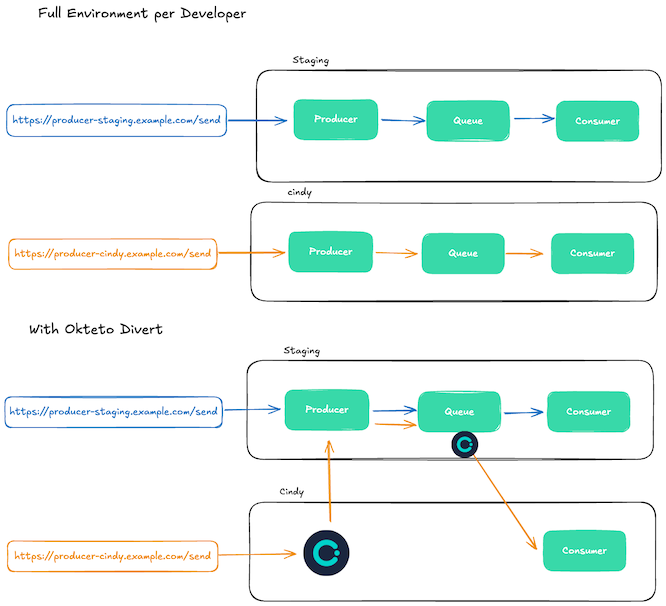
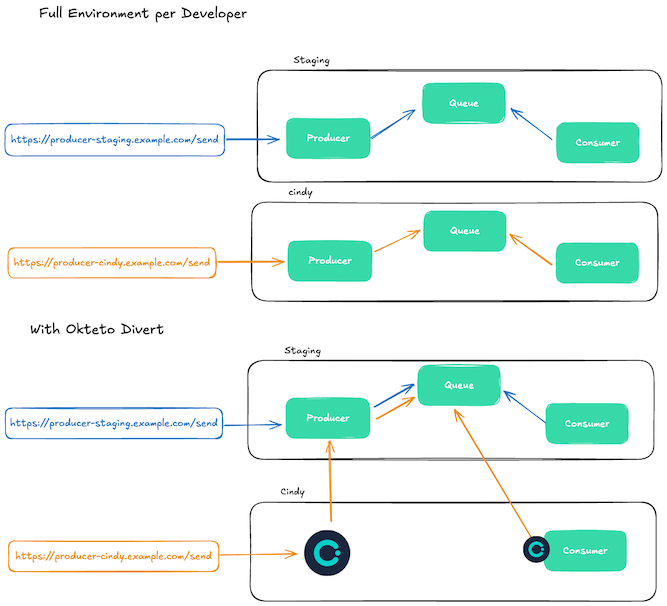
Update SQS example title and messaging references

diff --git a/producer-consumer-sqs/README.md b/producer-consumer-sqs/README.md
@@ -1,9 +1,9 @@
-# Okteto Divert Showcase - Producer-Consumer Kafka
+# Okteto Divert Showcase - Producer-Consumer SQS
 
 Okteto Divert allows you to spin up Development Environments that include **only the services you're actively working on**, while routing all other service traffic to a **shared environment**. This dramatically reduces infrastructure cost and speeds up environment startup—especially for large microservice applications.
 👉 [Learn more about Divert in our docs](https://www.okteto.com/docs/reference/okteto-manifest/#divert)
 
-This sample shows how to you can use Okteto Divert with services that interact via Kafka topics.
+This sample shows how to you can use Okteto Divert with services that interact via SQS topics.
 
 
 # Try the sample
